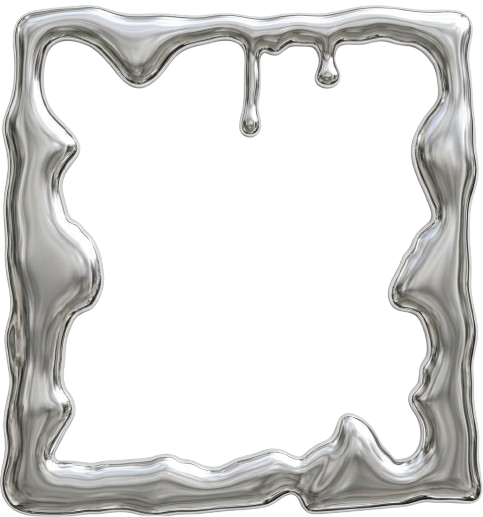
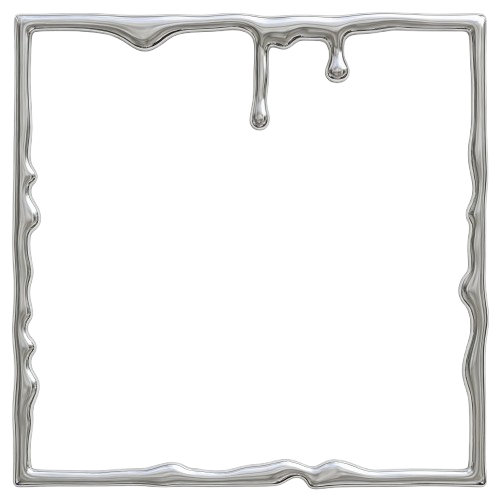
fix: thinner mercury frame, content above frame with z-index
Made-with: Cursor

diff --git a/promo-layout.html b/promo-layout.html
@@ -41,16 +41,16 @@
         }
         .prv .mercury{
             position:absolute;inset:0;width:100%;height:100%;
-            object-fit:fill;pointer-events:none;z-index:10;
+            object-fit:fill;pointer-events:none;z-index:1;
         }
-        .prv .shell-img{position:absolute;object-fit:contain;mix-blend-mode:lighten}
-        .prv .qr-img{position:absolute;object-fit:contain;mix-blend-mode:lighten}
+        .prv .shell-img{position:absolute;object-fit:contain;mix-blend-mode:lighten;z-index:2}
+        .prv .qr-img{position:absolute;object-fit:contain;mix-blend-mode:lighten;z-index:2}
 
         /* ── A: Classic Center ── */
         .pa .shell-img{width:32%;top:50%;left:50%;transform:translate(-50%,-50%) rotate(-22deg)}
         .pa .top-txt{
             position:absolute;top:9%;left:50%;transform:translateX(-50%);
-            text-align:center;width:80%;
+            text-align:center;width:80%;z-index:3;
         }
         .pa .top-txt .alb{
             font-family:'Bebas Neue',sans-serif;font-size:clamp(16px,3.5vw,26px);
@@ -58,7 +58,7 @@
         }
         .pa .bot-txt{
             position:absolute;bottom:12%;left:50%;transform:translateX(-50%);
-            text-align:center;width:75%;
+            text-align:center;width:75%;z-index:3;
         }
         .pa .bot-txt .trk{
             font-family:'Space Mono',monospace;font-size:clamp(11px,2vw,15px);font-weight:700;
@@ -69,7 +69,7 @@
 
         /* ── B: Asymmetric Left ── */
         .pb .shell-img{width:36%;top:12%;right:6%;transform:rotate(-18deg)}
-        .pb .left{position:absolute;top:12%;left:10%;width:42%}
+        .pb .left{position:absolute;top:12%;left:10%;width:42%;z-index:3}
         .pb .left .alb{
             font-family:'Bebas Neue',sans-serif;font-size:clamp(18px,4vw,32px);
             color:#e5e5e5;letter-spacing:2px;text-transform:uppercase;line-height:1.05;
@@ -81,14 +81,14 @@
         .pb .left .str{font-size:clamp(7px,1vw,9px);color:#555;letter-spacing:2px;text-transform:uppercase;margin-top:6px}
         .pb .qr-img{width:16%;bottom:10%;left:10%;border-radius:2px}
         .pb .qr-lbl{
-            position:absolute;bottom:12%;left:calc(10% + 18%);
+            position:absolute;bottom:12%;left:calc(10% + 18%);z-index:3;
             font-size:clamp(7px,1vw,9px);color:#444;letter-spacing:1px;text-transform:uppercase;
         }
 
         /* ── C: Cinema Bands ── */
         .pc .shell-img{width:26%;top:50%;left:50%;transform:translate(-50%,-50%) rotate(-28deg)}
         .pc .band-top{
-            position:absolute;top:0;left:5%;right:5%;padding:14px 16px;
+            position:absolute;top:0;left:5%;right:5%;padding:14px 16px;z-index:3;
             background:rgba(0,0,0,.7);backdrop-filter:blur(8px);
             display:flex;justify-content:space-between;align-items:center;
         }
@@ -101,7 +101,7 @@
             color:#c41e1e;letter-spacing:2px;text-transform:uppercase;
         }
         .pc .band-bot{
-            position:absolute;bottom:0;left:5%;right:5%;padding:12px 16px;
+            position:absolute;bottom:0;left:5%;right:5%;padding:12px 16px;z-index:3;
             background:rgba(0,0,0,.7);backdrop-filter:blur(8px);
             display:flex;justify-content:space-between;align-items:center;
         }
@@ -114,7 +114,7 @@
         .pd .shell-img{width:24%;top:8%;left:50%;transform:translateX(-50%) rotate(-25deg)}
         .pd .big{
             position:absolute;bottom:14%;left:50%;transform:translateX(-50%);
-            text-align:center;width:88%;
+            text-align:center;width:88%;z-index:3;
         }
         .pd .big .alb{
             font-family:'Bebas Neue',sans-serif;font-size:clamp(22px,5.5vw,42px);
@@ -128,7 +128,7 @@
         .pd .big .str{font-size:clamp(7px,1vw,9px);color:#444;margin-top:5px;letter-spacing:2px;text-transform:uppercase}
         .pd .qr-img{width:12%;bottom:6%;right:8%;border-radius:2px}
         .pd .corner{
-            position:absolute;bottom:7%;left:8%;
+            position:absolute;bottom:7%;left:8%;z-index:3;
             font-size:clamp(6px,.9vw,8px);color:#333;letter-spacing:1px;text-transform:uppercase;
         }
     </style>
